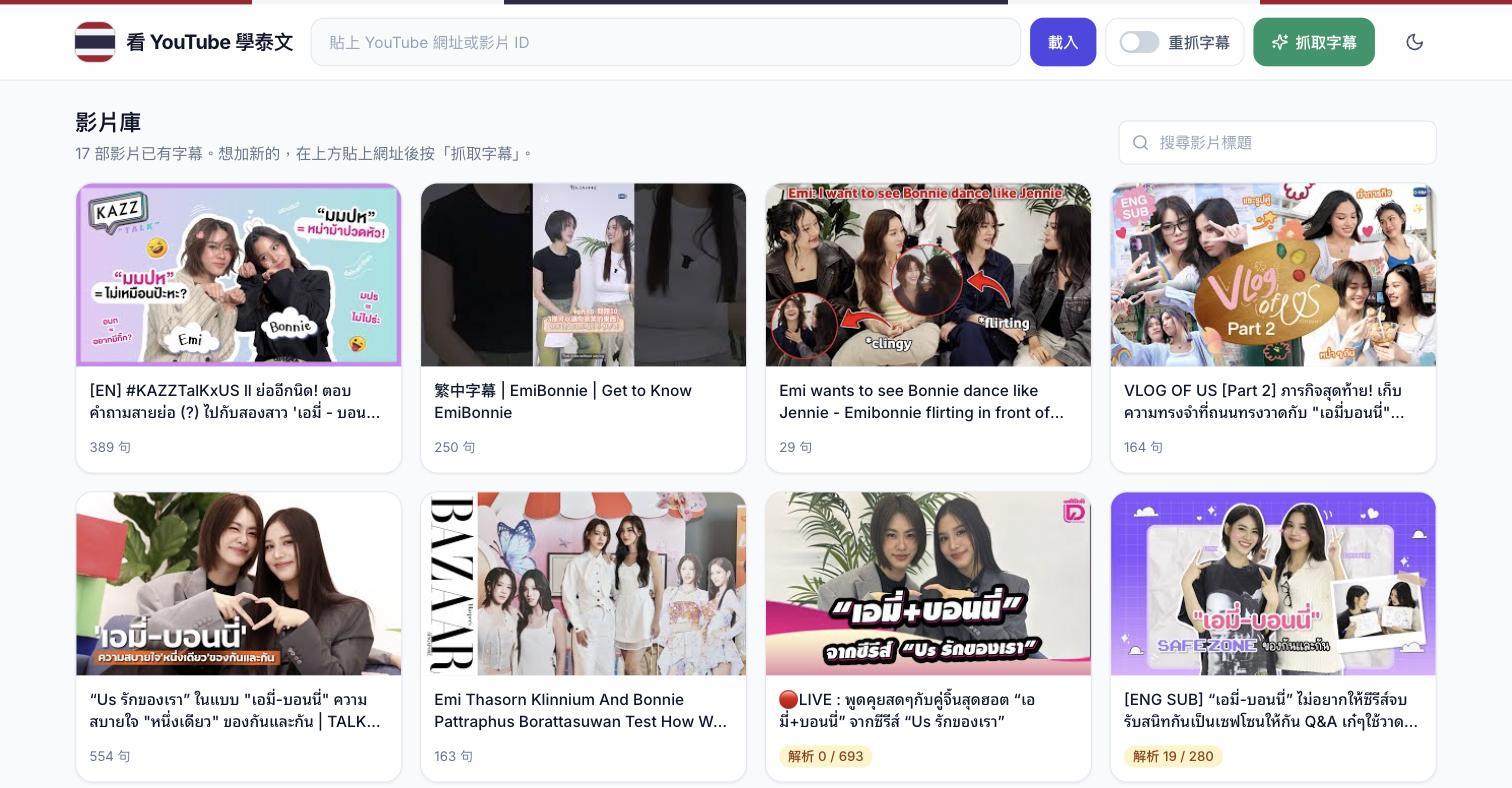
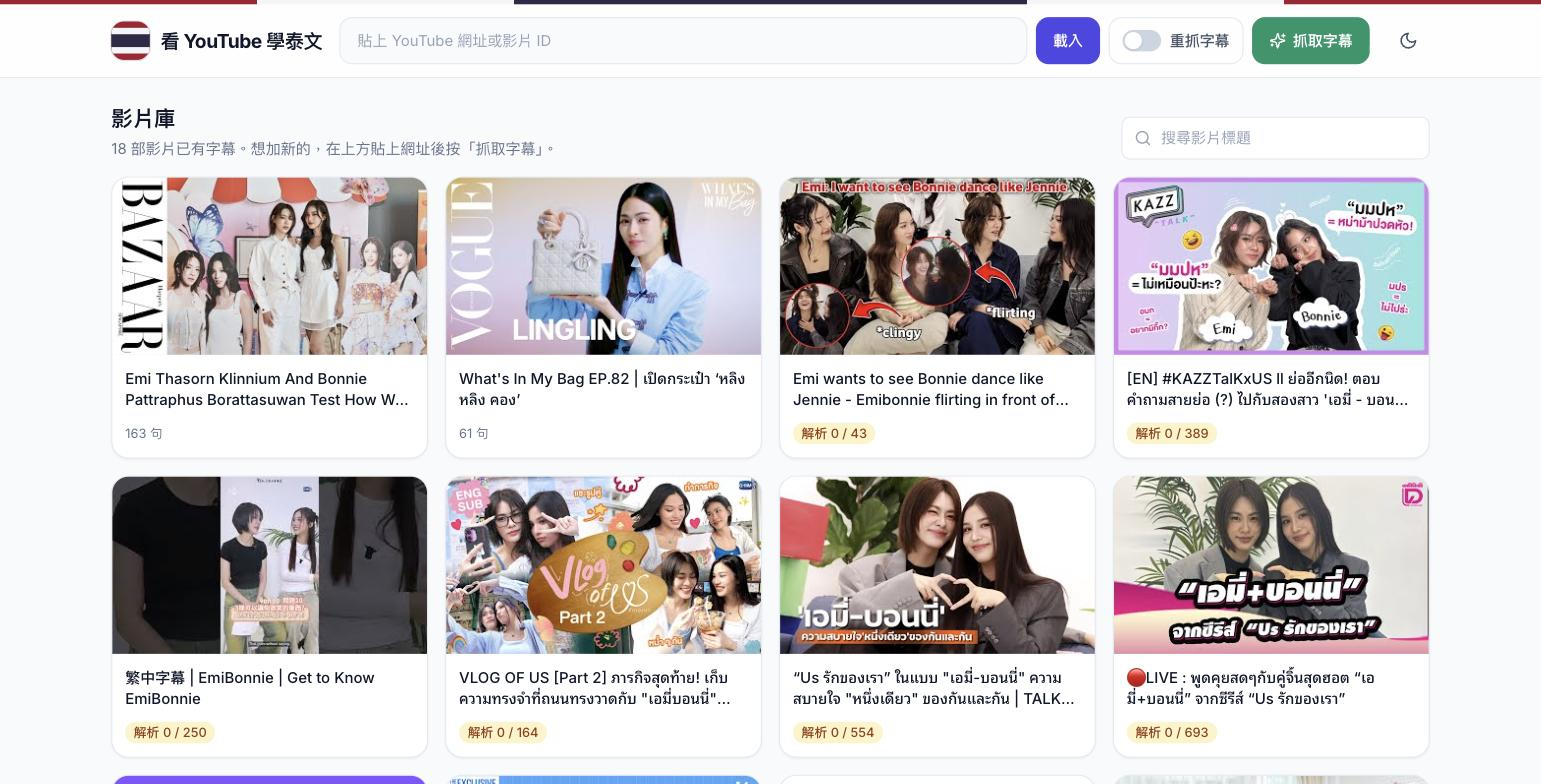
Keep dictionary romanization in plain RTGS and refresh screenshots
Dictionary lookups returned a mix of systems (grà-bpǎo, sawasdee, yuu).
The lookup prompt now spells out the RTGS rules with examples, entries
whose romanization fails a format check are looked up once more, and any
remaining tone marks or hyphens are stripped before saving.

scripts/repair_dictionary.py re-looks-up existing bad entries and merges
the dictionary back into already analysed subtitle files.

diff --git a/backend/gpt_teacher.py b/backend/gpt_teacher.py
@@ -9,6 +9,7 @@ from openai import AuthenticationError, OpenAI, PermissionDeniedError, RateLimit
 
 from .analysis_check import check_analysis
 from .dictionary import add_entries
+from .rtgs import plain_rtgs, rtgs_problems
 from .segmenter import tokenize
 from .storage import ANALYSIS_VERSION
 
@@ -270,7 +271,7 @@ DICTIONARY_BATCH_SIZE = 40
 DICTIONARY_ENTRY_SCHEMA = {
     "type": "object",
     "properties": {
-        "rtgs": {"type": "string", "description": "這個字的皇家轉寫系統拼音（RTGS）"},
+        "rtgs": {"type": "string", "description": "這個字的皇家轉寫系統拼音（RTGS），只用英文字母和空格"},
         "parts": {
             "type": "array",
             "description": "複合詞或固定說法的組成；不是的話給空陣列",
@@ -301,7 +302,7 @@ def dictionary_schema(count):
 def build_dictionary_prompt(payload):
     return f"""下面是一個 JSON 物件，每個 key（item_1、item_2...）對應一個泰文詞條（word），以及它出現過的一句例句（example）。
 幫每個詞條寫字典資料：
-- rtgs：這個字的拼音（RTGS）。
+- rtgs：泰國皇家轉寫系統（RTGS）的拼音。只用英文字母和空格：不加聲調符號、不用連字號、不標母音長短，也不要用其他拼音系統的寫法。例如 กระเป๋า 是 krapao、สวัสดี 是 sawatdi、อยู่ 是 yu、ครับ 是 khrap、ซื้อ 是 sue、ปาก 是 pak。人名、品牌、外文照它原本的拼法。parts 裡的拼音也一樣。
 - parts：複合詞或固定說法才填，列出組成的每個字（泰文、RTGS、繁體中文意思）；不是的話給空陣列。
 - senses：這個字常見的意思，用繁體中文，多個意思用「、」隔開，最多三個。
 - usage：一般的用法說明，一到兩句。語氣詞說明語氣和誰會用，量詞說明配什麼名詞；人名、品牌、外文只要寫明是什麼。
@@ -321,16 +322,36 @@ def lookup_words(client, batch):
     return {item["word"]: results[key] for key, item in payload.items() if key in results}
 
 
+def entry_problems(word, entry):
+    """這筆詞庫資料裡，拼音不符合 RTGS 格式的原因"""
+    problems = rtgs_problems(word, entry["rtgs"])
+    for part in entry["parts"]:
+        problems += rtgs_problems(part["word"], part["rtgs"])
+    return problems
+
+
 def lookup_batch(client, batch):
     entries = lookup_words(client, batch)
 
-    # 沒查到的字只重試一次
-    missing = [item for item in batch if item["word"] not in entries]
-    if missing:
-        print(f"⚠ 有 {len(missing)} 個字沒有查到，重試中...")
-        entries.update(lookup_words(client, missing))
+    # 沒查到、或拼音格式不對的字只重試一次
+    again = [
+        item
+        for item in batch
+        if item["word"] not in entries or entry_problems(item["word"], entries[item["word"]])
+    ]
+    if again:
+        print(f"⚠ 有 {len(again)} 個字沒有查到或拼音格式不對，重試中...")
+        entries.update(lookup_words(client, again))
 
-    return entries
+    # 重試後還帶著聲調符號或連字號的直接去掉，詞庫裡的拼音格式才會一致
+    return {
+        word: {
+            **entry,
+            "rtgs": plain_rtgs(entry["rtgs"]),
+            "parts": [{**part, "rtgs": plain_rtgs(part["rtgs"])} for part in entry["parts"]],
+        }
+        for word, entry in entries.items()
+    }
 
 
 # missing：{字: 例句}。分批並行查詞，每完成一批就寫進詞庫；回傳沒查到的字數

diff --git a/scripts/repair_dictionary.py b/scripts/repair_dictionary.py
@@ -1,0 +1,81 @@
+# 修復詞庫：把拼音不符合 RTGS 格式的字重新查一次，再把詞庫重新合併進已經解析過的字幕檔。
+# 重查會用到 OpenAI；重新合併不會。
+#
+#   python scripts/repair_dictionary.py            只列出有問題的字，不做任何更動
+#   python scripts/repair_dictionary.py --apply    重查並更新 data/dictionary.json 與 data/subtitles/
+import argparse
+import glob
+import os
+import sys
+
+REPO_ROOT = os.path.dirname(os.path.dirname(os.path.abspath(__file__)))
+sys.path.insert(0, REPO_ROOT)
+os.chdir(REPO_ROOT)
+
+from backend import storage  # noqa: E402
+from backend.dictionary import add_entries, load_dictionary, merge_explanation  # noqa: E402
+from backend.gpt_teacher import entry_problems, lookup_missing_words  # noqa: E402
+
+
+def example_sentences(words):
+    """從逐句解析的快取裡，找每個字第一次出現的那一句；找不到就用字本身"""
+    examples = {}
+    for file_name in sorted(glob.glob(f"{storage.DATA_DIR}/explanations/*.json")):
+        for explanation in (storage.load_json_file(file_name) or {}).values():
+            for item in explanation.get("analysis", []):
+                if item["word"] in words and item["word"] not in examples:
+                    examples[item["word"]] = explanation["thai"]
+    return {word: examples.get(word, word) for word in words}
+
+
+def remerge_subtitles(dictionary):
+    """把目前的詞庫重新合併進新格式的字幕檔，回傳更新的檔案數"""
+    updated = 0
+    for file_name in sorted(glob.glob(f"{storage.SUBTITLE_DIR}/*.json")):
+        subtitles = storage.load_json_file(file_name)
+        if not isinstance(subtitles, dict):
+            continue
+        changed = False
+        for line in subtitles.values():
+            explanation = line.get("explanation")
+            if not isinstance(explanation, dict) or explanation.get("v") != storage.ANALYSIS_VERSION:
+                continue
+            merged = merge_explanation({key: value for key, value in explanation.items() if key != "partial"}, dictionary)
+            if merged != explanation:
+                line["explanation"] = merged
+                changed = True
+        if changed:
+            storage.save_json_file(file_name, subtitles)
+            updated += 1
+    return updated
+
+
+def main():
+    parser = argparse.ArgumentParser()
+    parser.add_argument("--apply", action="store_true", help="實際重查並寫入；沒加的話只列出有問題的字")
+    args = parser.parse_args()
+
+    dictionary = load_dictionary()
+    bad = {word: entry for word, entry in dictionary.items() if entry_problems(word, entry)}
+    print(f"詞庫共 {len(dictionary)} 個字，拼音格式有問題的 {len(bad)} 個")
+    for word, entry in list(bad.items())[:15]:
+        print(f"  {word}  {entry['rtgs']}")
+    if not args.apply or not bad:
+        return
+
+    # 先拿掉有問題的字再重查；沒查到的把舊資料放回去，不會比原本少
+    storage.save_json_file(
+        storage.dictionary_file(), {word: entry for word, entry in dictionary.items() if word not in bad}
+    )
+    try:
+        lookup_missing_words(example_sentences(bad))
+    finally:
+        dictionary = add_entries(bad)
+
+    still_bad = [word for word, entry in dictionary.items() if entry_problems(word, entry)]
+    print(f"重查後仍有問題的 {len(still_bad)} 個：{still_bad[:15]}")
+    print(f"重新合併了 {remerge_subtitles(dictionary)} 個字幕檔")
+
+
+if __name__ == "__main__":
+    main()

diff --git a/tests/test_gpt_dictionary.py b/tests/test_gpt_dictionary.py
@@ -6,7 +6,7 @@ from tests.conftest import FakeClient
 
 
 def entry_for(word):
-    return {"rtgs": f"rtgs-{word}", "parts": [], "senses": "意思", "usage": "用法"}
+    return {"rtgs": "rtgs", "parts": [], "senses": "意思", "usage": "用法"}
 
 
 def respond(payload):
@@ -82,3 +82,42 @@ def test_existing_dictionary_words_are_kept(data_dir, use_client):
     use_client(respond)
     gpt_teacher.lookup_missing_words({"มา": "มาแล้ว"})
     assert load_dictionary()["มา"]["rtgs"] == "ma"
+
+
+def test_non_rtgs_romanization_is_looked_up_again(data_dir, use_client):
+    attempts = []
+
+    def respond_badly_once(payload):
+        attempts.append([item["word"] for item in payload.values()])
+        results = respond(payload)
+        if len(attempts) == 1:
+            key = next(key for key, item in payload.items() if item["word"] == "กระเป๋า")
+            results[key]["rtgs"] = "grà-bpǎo"
+        return results
+
+    use_client(respond_badly_once)
+    assert gpt_teacher.lookup_missing_words({"มา": "มาแล้ว", "กระเป๋า": "กระเป๋า"}) == 0
+    assert attempts == [["มา", "กระเป๋า"], ["กระเป๋า"]]
+    assert load_dictionary()["กระเป๋า"]["rtgs"] == "rtgs"
+
+
+def test_romanization_still_marked_after_the_retry_is_stored_without_marks(data_dir, use_client):
+    def respond_badly(payload):
+        results = respond(payload)
+        for key in results:
+            results[key]["rtgs"] = "krà-jòk"
+            results[key]["parts"] = [{"word": "กระ", "rtgs": "krà", "meaning": "前綴"}]
+        return results
+
+    client = use_client(respond_badly)
+    assert gpt_teacher.lookup_missing_words({"กระจก": "กระจก"}) == 0
+    assert len(client.calls) == 2
+    saved = load_dictionary()["กระจก"]
+    assert saved["rtgs"] == "kra jok"
+    assert saved["parts"] == [{"word": "กระ", "rtgs": "kra", "meaning": "前綴"}]
+
+
+def test_dictionary_prompt_spells_out_the_romanization_rules():
+    prompt = gpt_teacher.build_dictionary_prompt({"item_1": {"word": "มา", "example": "มาแล้ว"}})
+    assert "不加聲調符號" in prompt
+    assert "krapao" in prompt

diff --git a/tests/test_rtgs.py b/tests/test_rtgs.py
@@ -1,0 +1,50 @@
+import pytest
+
+from backend.rtgs import plain_rtgs, rtgs_problems
+
+
+@pytest.mark.parametrize(
+    "word, rtgs",
+    [
+        ("กระเป๋า", "krapao"),
+        ("ครับ", "khrap"),
+        ("ไม่เป็นไร", "mai pen rai"),
+        ("หลิง", "Ling"),
+        ("ช่อง", "chong 25"),
+    ],
+)
+def test_plain_rtgs_passes(word, rtgs):
+    assert rtgs_problems(word, rtgs) == []
+
+
+@pytest.mark.parametrize(
+    "word, rtgs",
+    [
+        ("กระเป๋า", "grà-bpǎo"),  # 聲調符號、連字號
+        ("ครับ", "kráp"),  # 聲調符號
+        ("ใบแรก", "bai-raek"),  # 連字號
+        ("สวัสดี", "sawasdee"),  # 不是 RTGS 的母音寫法
+        ("อยู่", "yuu"),  # RTGS 不標母音長短
+        ("ปาก", "bpak"),  # 別套系統的子音寫法
+        ("กระจก", "krajok"),  # RTGS 沒有 j
+        ("มา", "  "),  # 沒有拼音
+    ],
+)
+def test_non_rtgs_is_reported(word, rtgs):
+    assert rtgs_problems(word, rtgs) != []
+
+
+@pytest.mark.parametrize("word, rtgs", [("Dior", "Dior"), ("Google", "Google"), ("Vogue Thailand", "Vogue-Thailand"), ("♪♪", "")])
+def test_words_without_thai_letters_are_not_checked(word, rtgs):
+    assert rtgs_problems(word, rtgs) == []
+
+
+def test_plain_rtgs_removes_tone_marks_and_hyphens():
+    assert plain_rtgs("grà-bpǎo") == "gra bpao"
+    assert plain_rtgs("kráp") == "krap"
+    assert plain_rtgs("lip-sà-tìk") == "lip sa tik"
+
+
+def test_plain_rtgs_leaves_clean_text_alone():
+    assert plain_rtgs("mai pen rai") == "mai pen rai"
+    assert plain_rtgs("Dior") == "Dior"

diff --git a/backend/rtgs.py b/backend/rtgs.py
@@ -1,0 +1,29 @@
+# RTGS 拼音的格式檢查：詞庫的拼音每部影片都會沿用，不能混進帶聲調符號或別套系統的寫法
+import re
+import unicodedata
+
+THAI_LETTER = re.compile(r"[฀-๿]")
+LETTERS_AND_SPACES = re.compile(r"^[A-Za-z0-9 ]+$")
+# RTGS 不標母音長短（aa、ii…），也沒有 bp、dt、j 這些其他拼音系統的子音寫法
+NOT_RTGS = re.compile(r"aa|ee|ii|oo|uu|bp|dt|j", re.IGNORECASE)
+
+
+def rtgs_problems(word, rtgs):
+    """回傳拼音不符合 RTGS 格式的原因，空清單代表通過。不含泰文字母的字（外文、品牌）不檢查"""
+    if not THAI_LETTER.search(word):
+        return []
+    if not rtgs.strip():
+        return ["沒有拼音"]
+    problems = []
+    if not LETTERS_AND_SPACES.match(rtgs):
+        problems.append("有聲調符號或連字號")
+    if NOT_RTGS.search(rtgs):
+        problems.append("不是 RTGS 的寫法")
+    return problems
+
+
+def plain_rtgs(rtgs):
+    """去掉聲調符號，連字號換成空格"""
+    text = unicodedata.normalize("NFD", rtgs)
+    text = "".join(ch for ch in text if not unicodedata.combining(ch))
+    return " ".join(re.sub(r"[-‐-―]", " ", text).split())

diff --git a/tests/test_jobs.py b/tests/test_jobs.py
@@ -12,7 +12,7 @@ ANALYSES = {
 
 
 def entry_for(word):
-    return {"rtgs": f"rtgs-{word}", "parts": [], "senses": "意思", "usage": "用法"}
+    return {"rtgs": "rtgs", "parts": [], "senses": "意思", "usage": "用法"}
 
 
 def respond(payload, skip=()):
@@ -67,7 +67,7 @@ def test_subtitles_are_saved_with_sentence_and_dictionary_fields(video, monkeypa
         "type": "word",
         "meaning": "意思",
         "more": "",
-        "rtgs": "rtgs-มา",
+        "rtgs": "rtgs",
         "parts": [],
         "senses": "意思",
         "usage": "用法",

diff --git a/README.en.md b/README.en.md
@@ -106,6 +106,7 @@ A video of about 500 lines takes roughly 5 minutes. If a run fails partway (for 
 │   ├── segmenter.py         Word tokenization with PyThaiNLP
 │   ├── analysis_check.py    Checks that the words cover the line and are split finely enough
 │   ├── dictionary.py        Reads, writes and merges the word dictionary
+│   ├── rtgs.py              Checks that dictionary romanization is in RTGS form
 │   ├── tts.py               Speaks one subtitle line with ElevenLabs
 │   └── storage.py           Where every data file lives, and reading/writing them
 ├── frontend/                Frontend (React + Vite + Tailwind)
@@ -114,7 +115,7 @@ A video of about 500 lines takes roughly 5 minutes. If a run fails partway (for 
 ├── data/                    All data (see below)
 ├── Dockerfile               Backend image
 ├── docker-compose.yml       Starts backend and frontend together
-├── scripts/                 Script for comparing segmentation variants
+├── scripts/                 Scripts for comparing segmentation variants and repairing dictionary romanization
 ├── tests/                   Backend tests (pytest)
 ├── requirements.txt         Backend Python packages
 ├── requirements-dev.txt     Development packages (tests)

diff --git a/README.md b/README.md
@@ -102,6 +102,7 @@ npm run dev
 │   ├── segmenter.py         用 PyThaiNLP 做機器斷詞
 │   ├── analysis_check.py    檢查單字有沒有涵蓋整句、有沒有拆開
 │   ├── dictionary.py        詞庫的讀寫與合併
+│   ├── rtgs.py              檢查詞庫的拼音是不是 RTGS 的格式
 │   ├── tts.py               用 ElevenLabs 把一句字幕唸出來
 │   └── storage.py           所有資料檔的位置與讀寫
 ├── frontend/                前端（React + Vite + Tailwind）
@@ -110,7 +111,7 @@ npm run dev
 ├── data/                    所有資料（見下方）
 ├── Dockerfile               後端的映像檔
 ├── docker-compose.yml       一次啟動前後端
-├── scripts/                 對照實驗用的腳本
+├── scripts/                 對照實驗、修復詞庫拼音用的腳本
 ├── tests/                   後端的測試（pytest）
 ├── requirements.txt         後端的 Python 套件
 ├── requirements-dev.txt     開發用的套件（測試）
